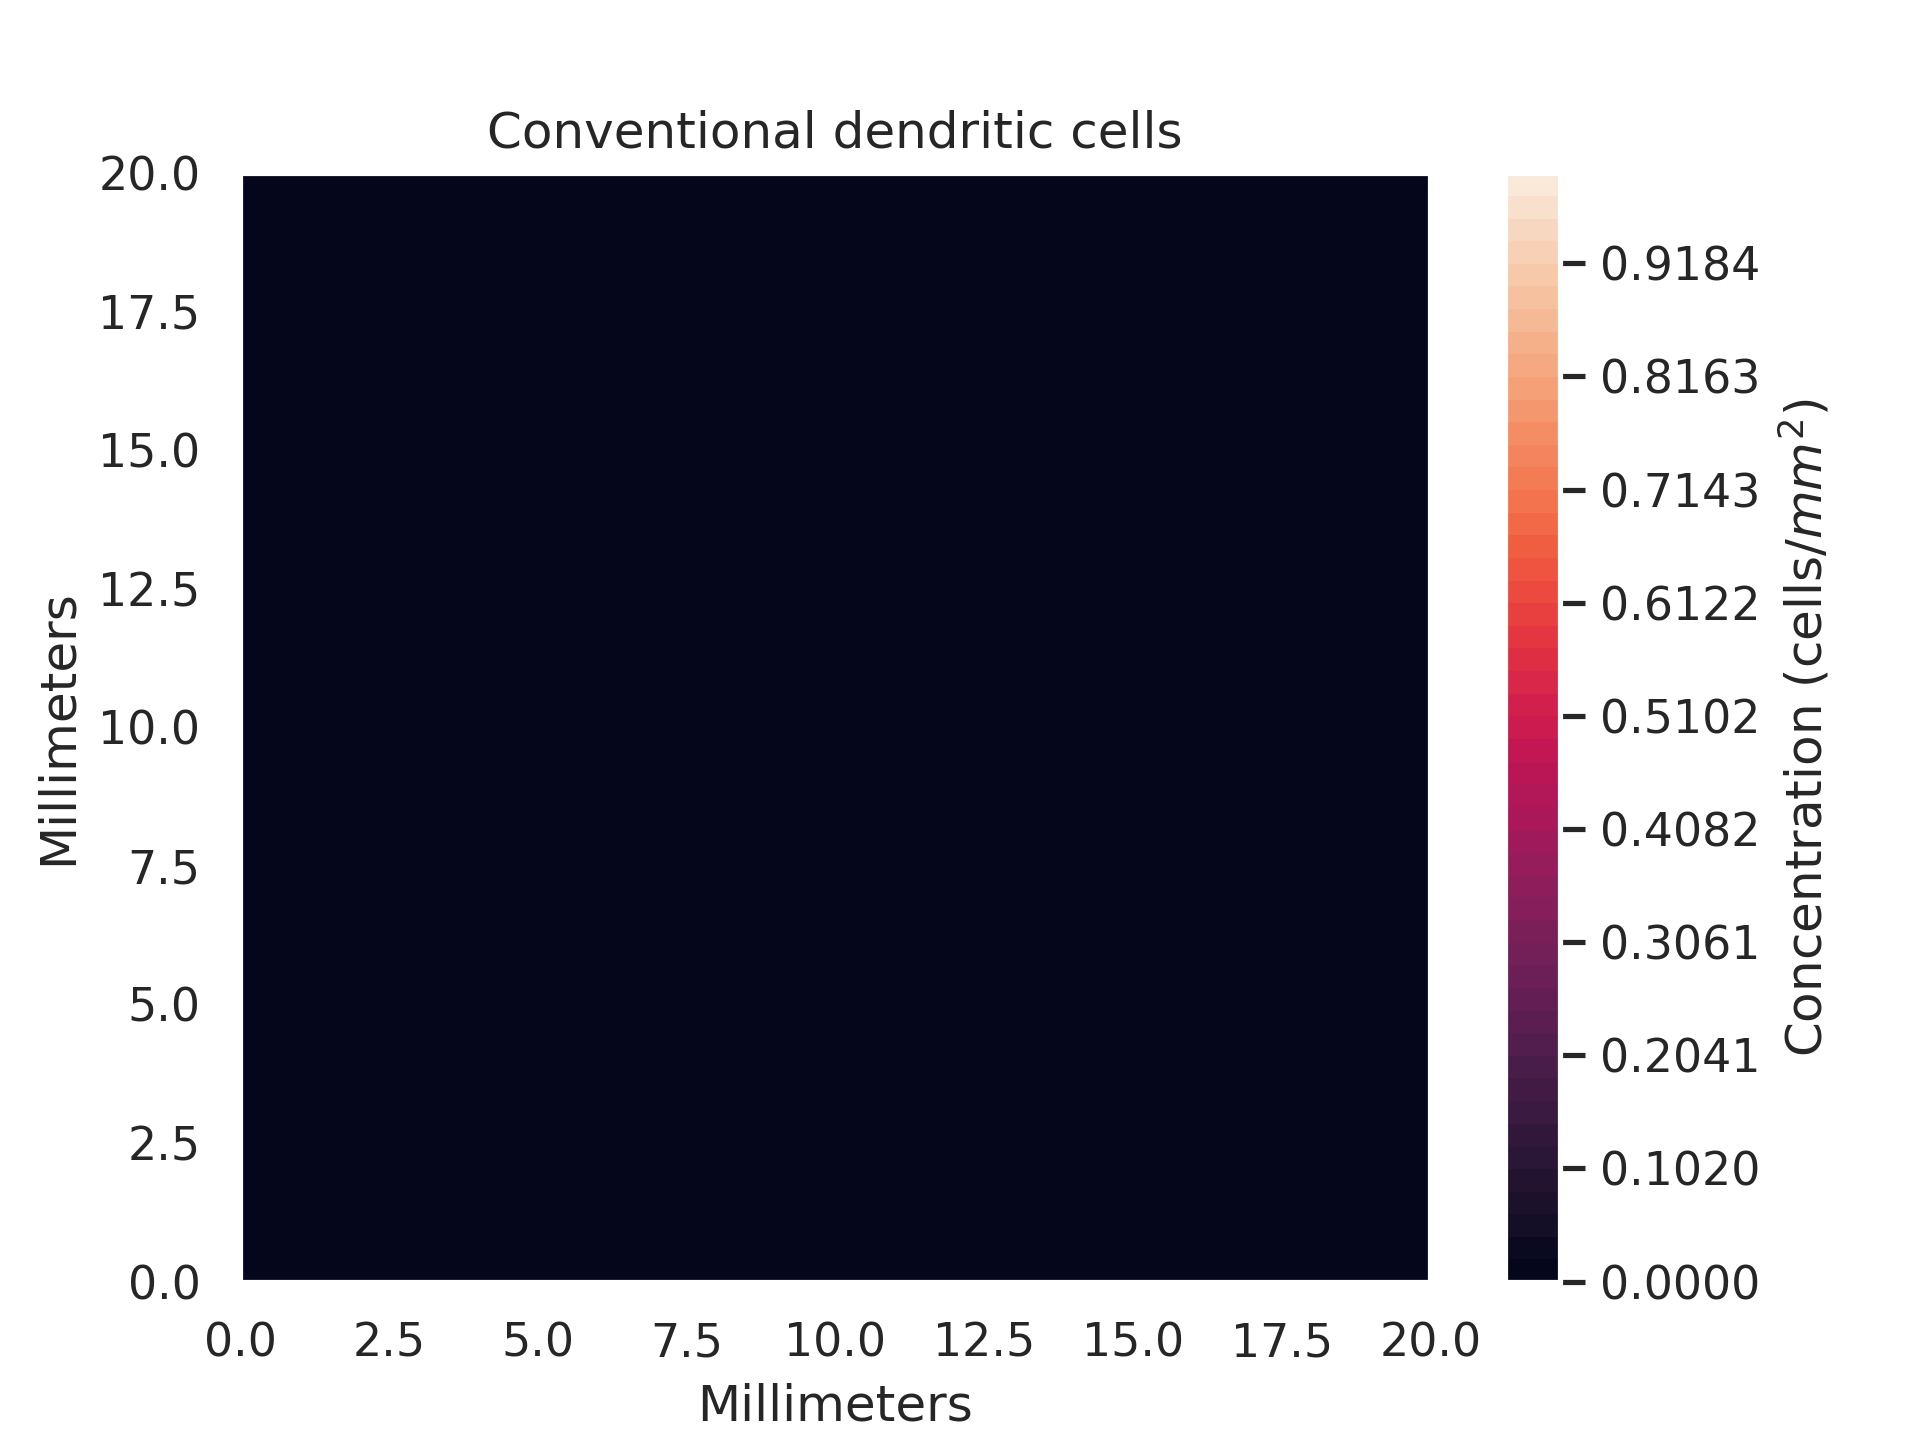
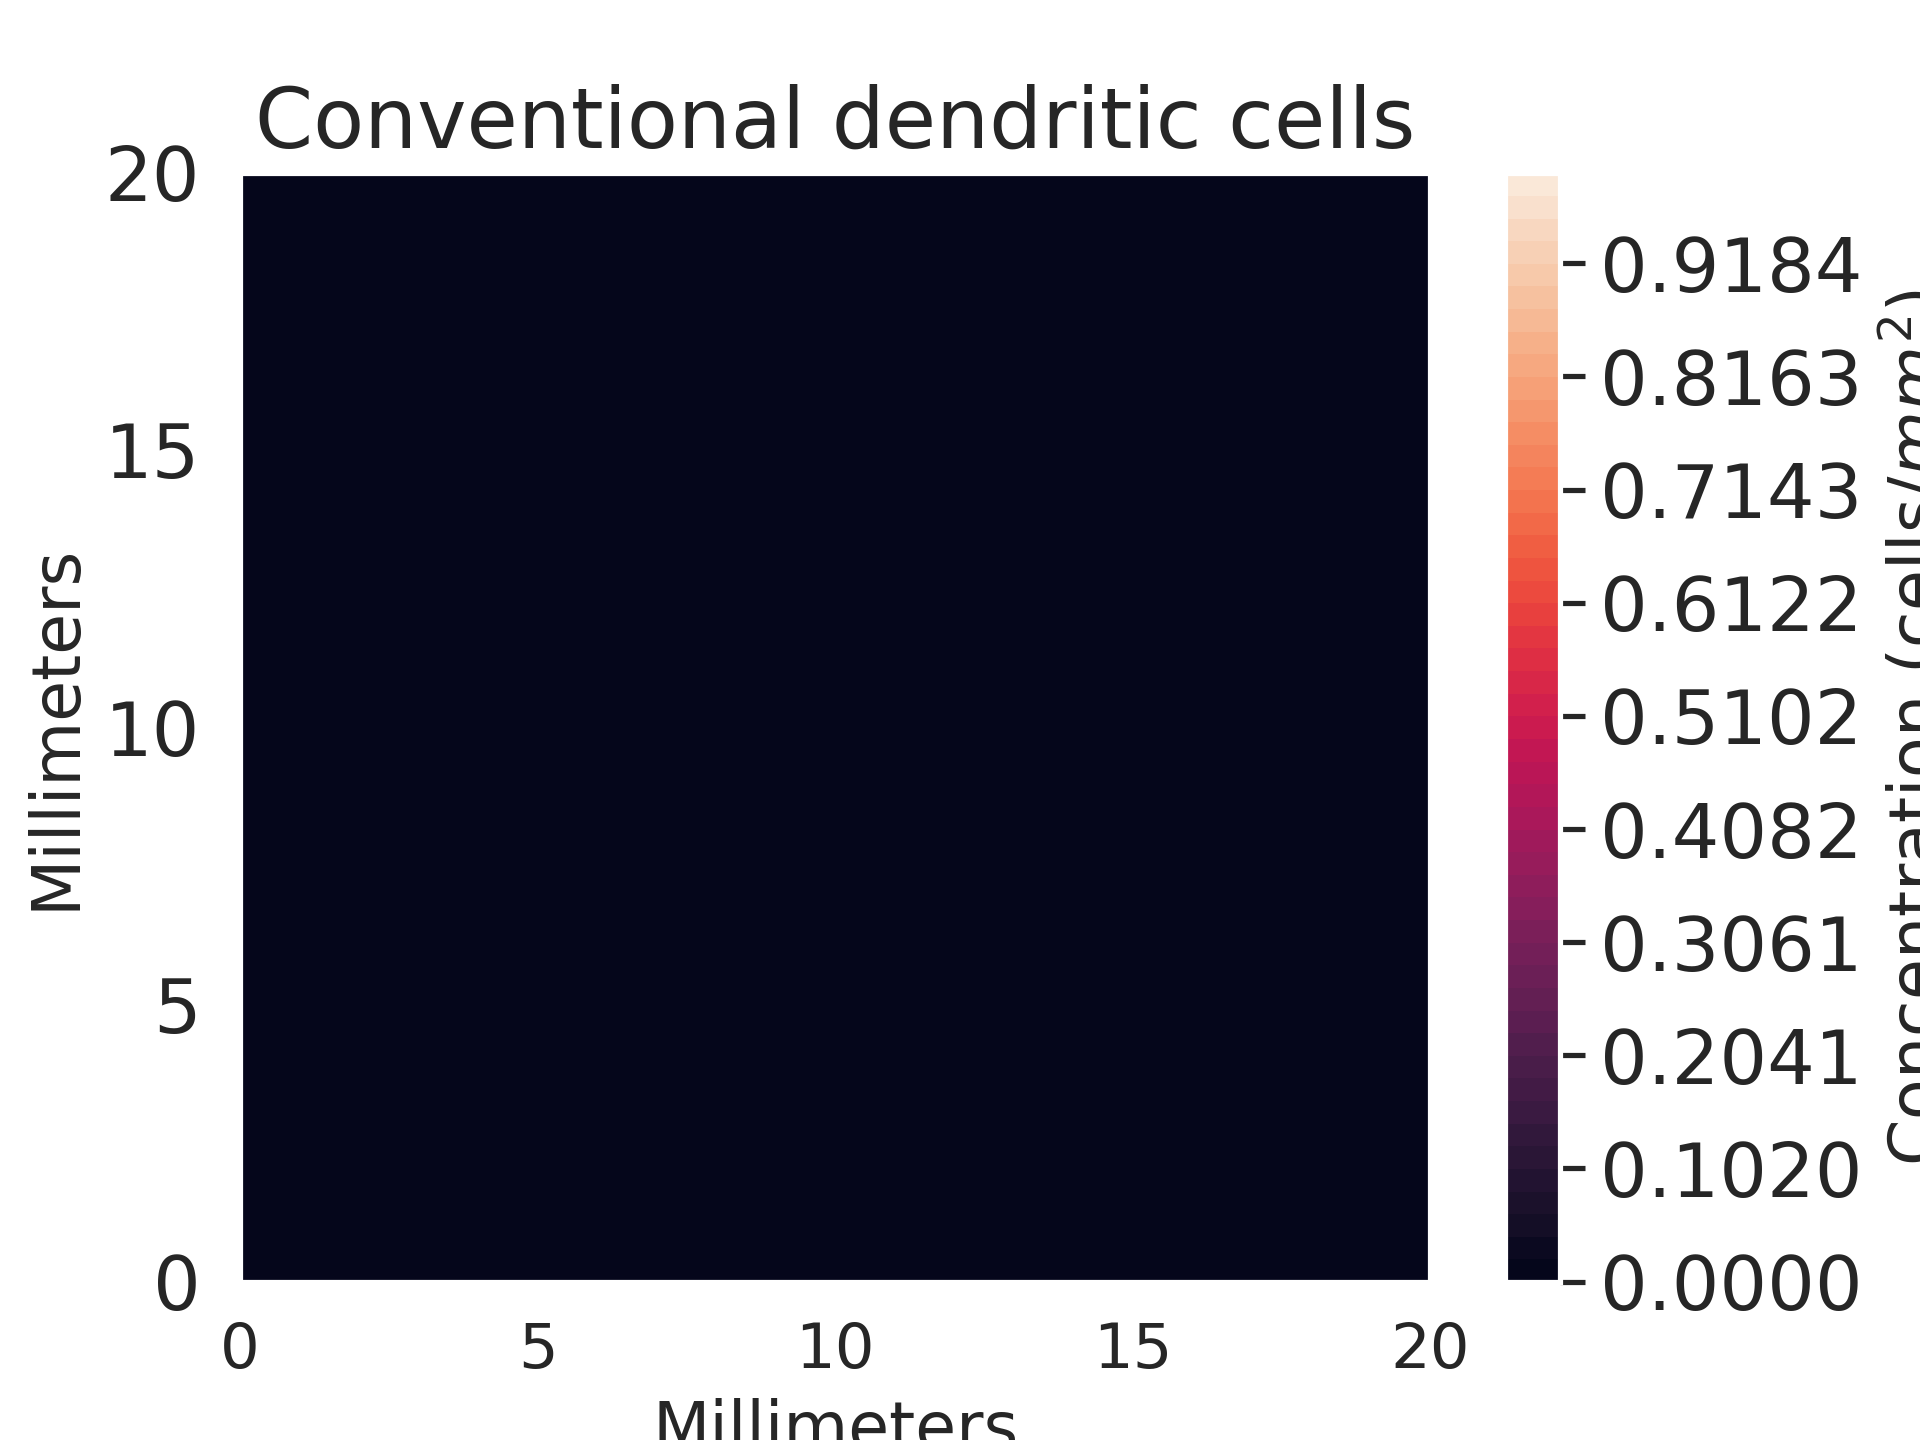
plot size

diff --git a/neuroimmunomodel.py b/neuroimmunomodel.py
@@ -1,4 +1,4 @@
-from cProfile import label
+import matplotlib 
 import matplotlib.pyplot as plt
 import numpy as np
 import seaborn as sns
@@ -186,7 +186,11 @@ def printMesh(time, population, type):
     levels = np.linspace(0, max_population, 50)
 
     cp = plt.contourf(x_pts, y_pts,population, levels=levels)
-    plt.title(populationTitle[type])
+    plt.title(populationTitle[type], fontsize=20)
+    matplotlib.rc('xtick', labelsize=15) 
+    matplotlib.rc('ytick', labelsize=16)
+    plt.rc('axes', labelsize=16)
+    plt.rc('font', size=15)
     plt.xlabel("Millimeters")
     plt.ylabel("Millimeters")
     if type == "ant":
